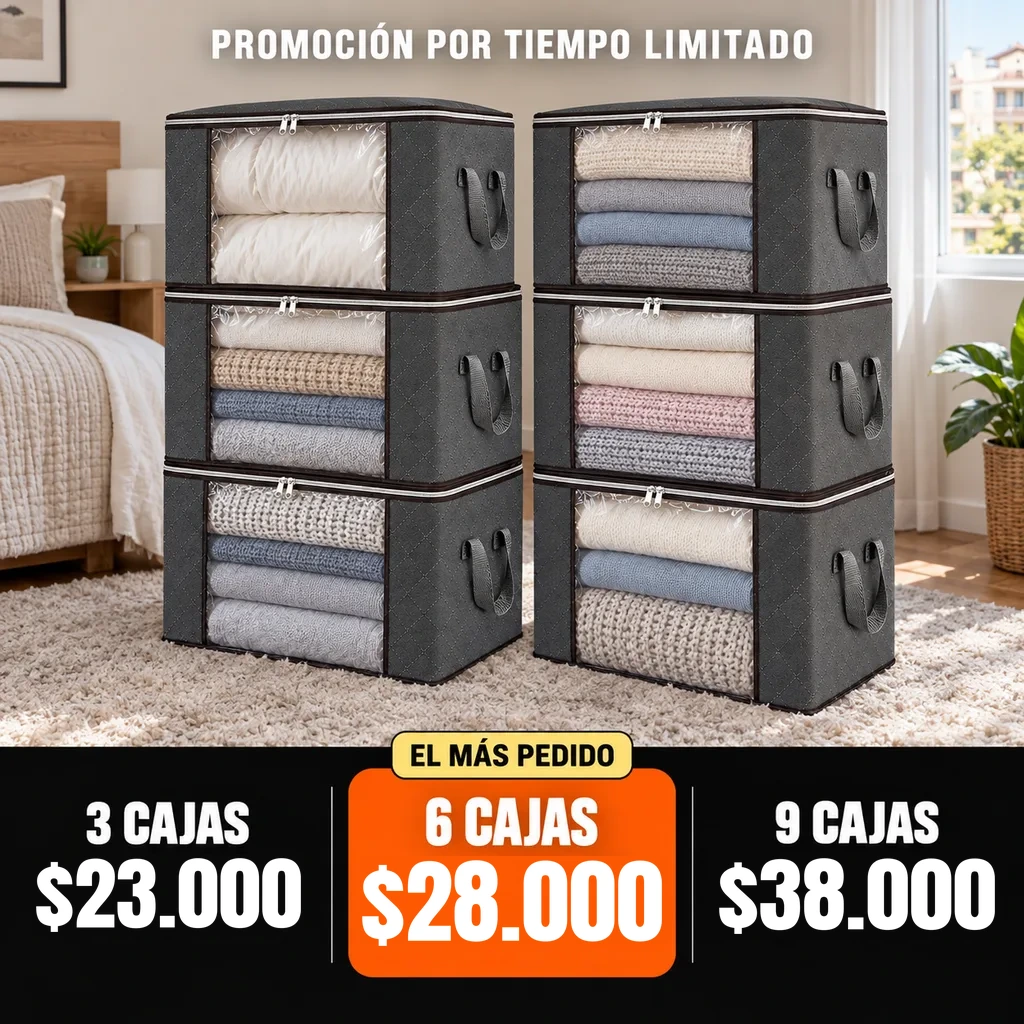
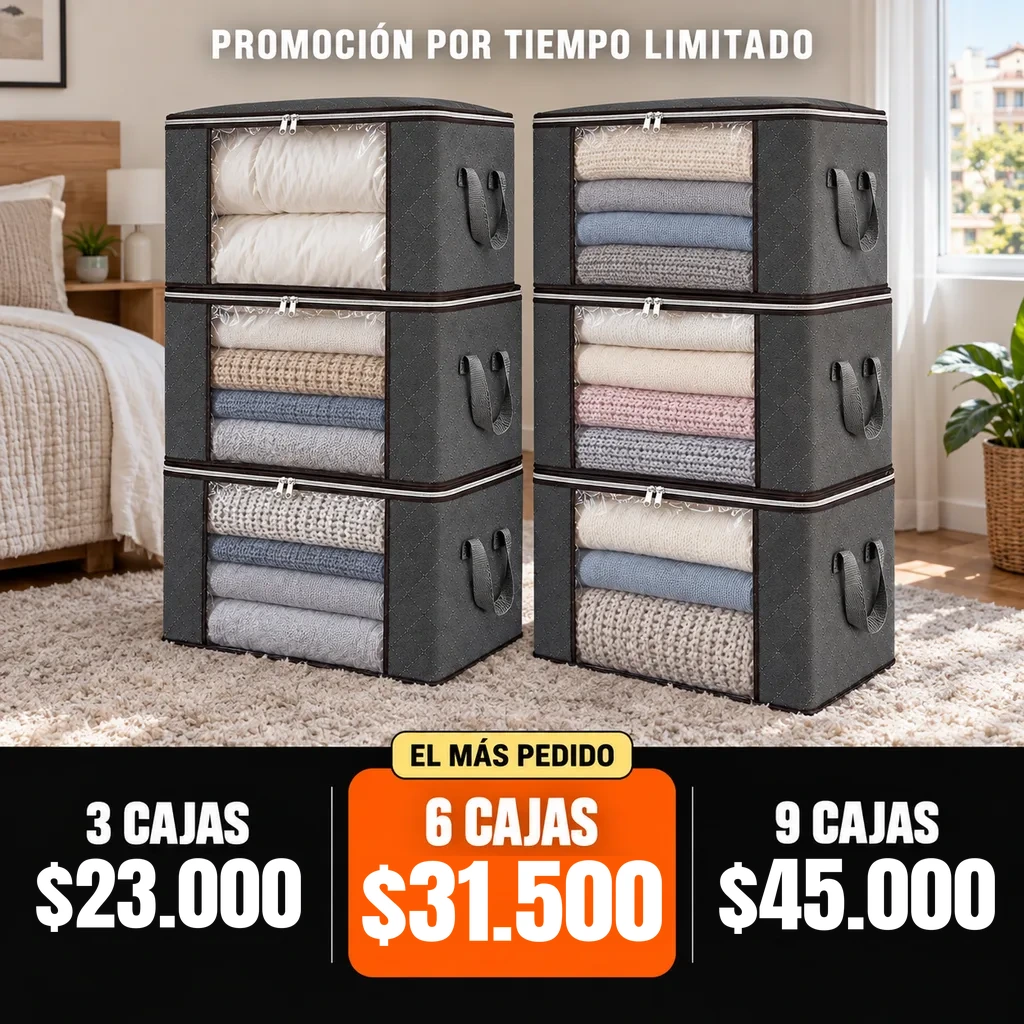
Organizador: 23.000 / 31.500 / 45.000 (+3.500 por pack, misma ganancia que con MEIBO) y la promo usa el mismo tachado del pack

Changed region(s): [[0.375, 0.8438, 0.625, 0.9375], [0.7188, 0.8438, 0.8438, 0.9062]]

diff --git a/productos.js b/productos.js
@@ -623,6 +623,7 @@ window.PRODUCTOS = [
     /* promo 9 (James 15-09): el combo de 9 es el que deja ganancia ($13.662 por entrega contra
        $7.748 el de 6), asi que la promocion y el mas vendido (popular: 2) empujan el de 9. */
     id: 'organizador', unidad: 'caja', promo: 9,
+    promoAntesDelPack: true,   /* 13-10: la promo usa el mismo tachado del pack de 9 ($58.500); antes calculaba $68.400 y no cuadraba */
     /* fotos reales de clientes, en orden de lo que mas convence: primero
        las que muestran la caja LLENA y cerrada, despues el detalle de las
        asas y el cierre, y al final el paquete como llega */
@@ -676,8 +677,9 @@ window.PRODUCTOS = [
       /* 13-10 James: proveedor nuevo Chamos Store (pack x3 a $8.000) => +3.500 parejo a cada pack: 23.000 / 28.000 / 38.000.
          El "antes" del de 3 sigue la regla del 30 % (23.000 x 1.3 = 29.900). La medida se deja como estaba (James 13-10). */
       { cant: 3, precio: 23000, antes: 29900, texto: '3 cajas · 294 litros' },
-      { cant: 6, precio: 28000, antes: 39000, texto: '6 cajas · 588 litros' },
-      { cant: 9, precio: 38000, antes: 58500, texto: '9 cajas · 882 litros' },
+      /* 13-10 tarde James: "que quede con la misma ganancia" => +3.500 POR PACK: 6 cajas 31.500 · 9 cajas 45.000 (antes 28.000 / 38.000) */
+      { cant: 6, precio: 31500, antes: 39000, texto: '6 cajas · 588 litros' },
+      { cant: 9, precio: 45000, antes: 58500, texto: '9 cajas · 882 litros' },
     ],
     popular: 2,
   },
@@ -1554,5 +1556,5 @@ window.PRECIOS_APROBADOS = [
   22500, 31500, 44500,   /* zapatero organizador colgador 4 niveles: 1 · 2 · 3 unidades (James, 01-10) */
   24500, 34500, 44500,   /* desengrasante en espuma: combos de 2 · 4 · 6 espumas, con 2 regalos (James, 03-10) */
   21490, 33490, 45490,   /* cámara ampolleta WiFi: 1 · 2 · 3 cámaras, 500 bajo CheliExpress (James, 06-10) */
-  23000, 28000, 38000,   /* organizador desde el 13-10 (James): Chamos Store a $8.000 el pack => +3.500 a cada pack */
+  23000, 31500, 45000, 63000,   /* organizador desde el 13-10 (James): Chamos Store a $8.000 el pack => +3.500 POR PACK (misma ganancia que con MEIBO) */
 ];

diff --git a/producto.html b/producto.html
@@ -1203,7 +1203,7 @@ window.jayePixel = (function () {
     </div>
   </footer>
 
-<script src="productos.js?v=104"></script>
+<script src="productos.js?v=105"></script>
 <script src="chile-regiones.js?v=2"></script>
 <script src="resenas.js?v=31"></script>
 <script src="efectos.js?v=4"></script>
@@ -1215,7 +1215,7 @@ window.jayePixel = (function () {
   <script src="lib/ScrollTrigger.min.js"></script>
   <script src="lib/countup.umd.js"></script>
 <script src="efectos-ficha.js?v=23"></script>
-<script src="organizador.js?v=25"></script>
+<script src="organizador.js?v=26"></script>
 <script src="zapatero.js?v=3"></script>
 <script src="desengrasante.js?v=6"></script>
 <script src="ampolleta.js?v=6"></script>

diff --git a/organizador.js b/organizador.js
@@ -31,7 +31,7 @@
      'Caja organizadora abierta sobre una cama con un plumón king doblado dentro',
      'La capacidad', '98 litros por caja',
      'O seis frazadas gruesas, o dieciséis prendas dobladas. La tapa abre entera por el cierre, no por una ranura: entra de una y cierra sin forzar.'],
-    ['img/og-packs.webp?v=2',
+    ['img/og-packs.webp?v=3',
      'Seis cajas organizadoras apiladas en dos torres en un dormitorio',
      'Cómo se maneja', 'Asas reforzadas y plegable',
      'Las asas aguantan para llevarla cargada de un lugar a otro sin esfuerzo. Y cuando no la usas, se pliega y la guardas sin que ocupe espacio.'],

diff --git a/index.html b/index.html
@@ -391,7 +391,7 @@ try{ if(!sessionStorage.getItem('jaye_vis_portada')){ sessionStorage.setItem('ja
     </div>
   </footer>
 
-<script src="productos.js?v=52"></script>
+<script src="productos.js?v=53"></script>
 <script src="resenas.js?v=11"></script>
 <script src="tienda.js?v=51"></script>
 </body>
